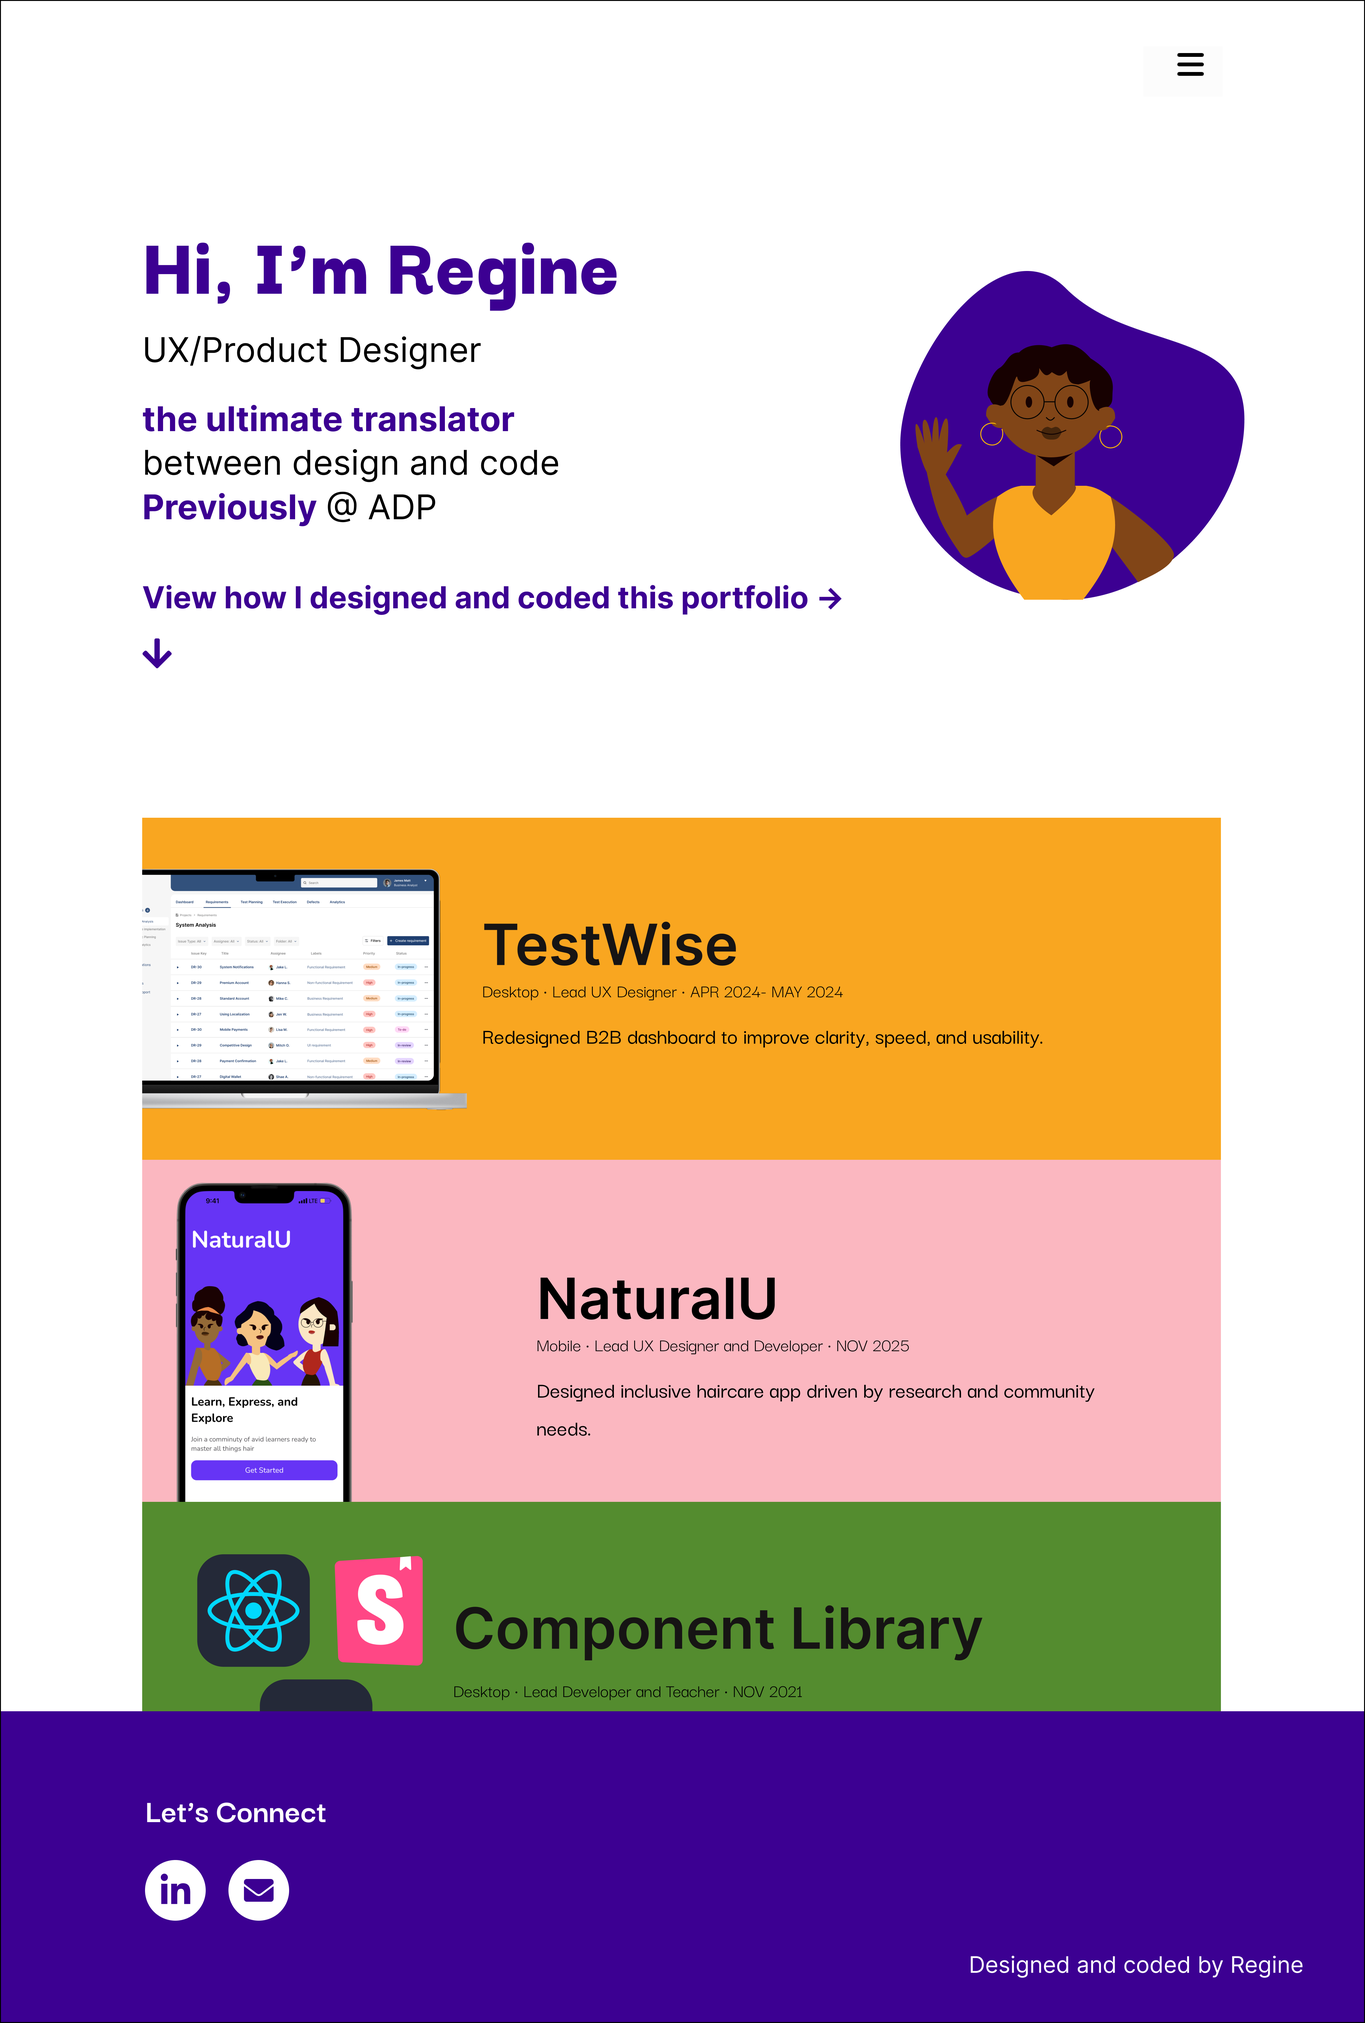
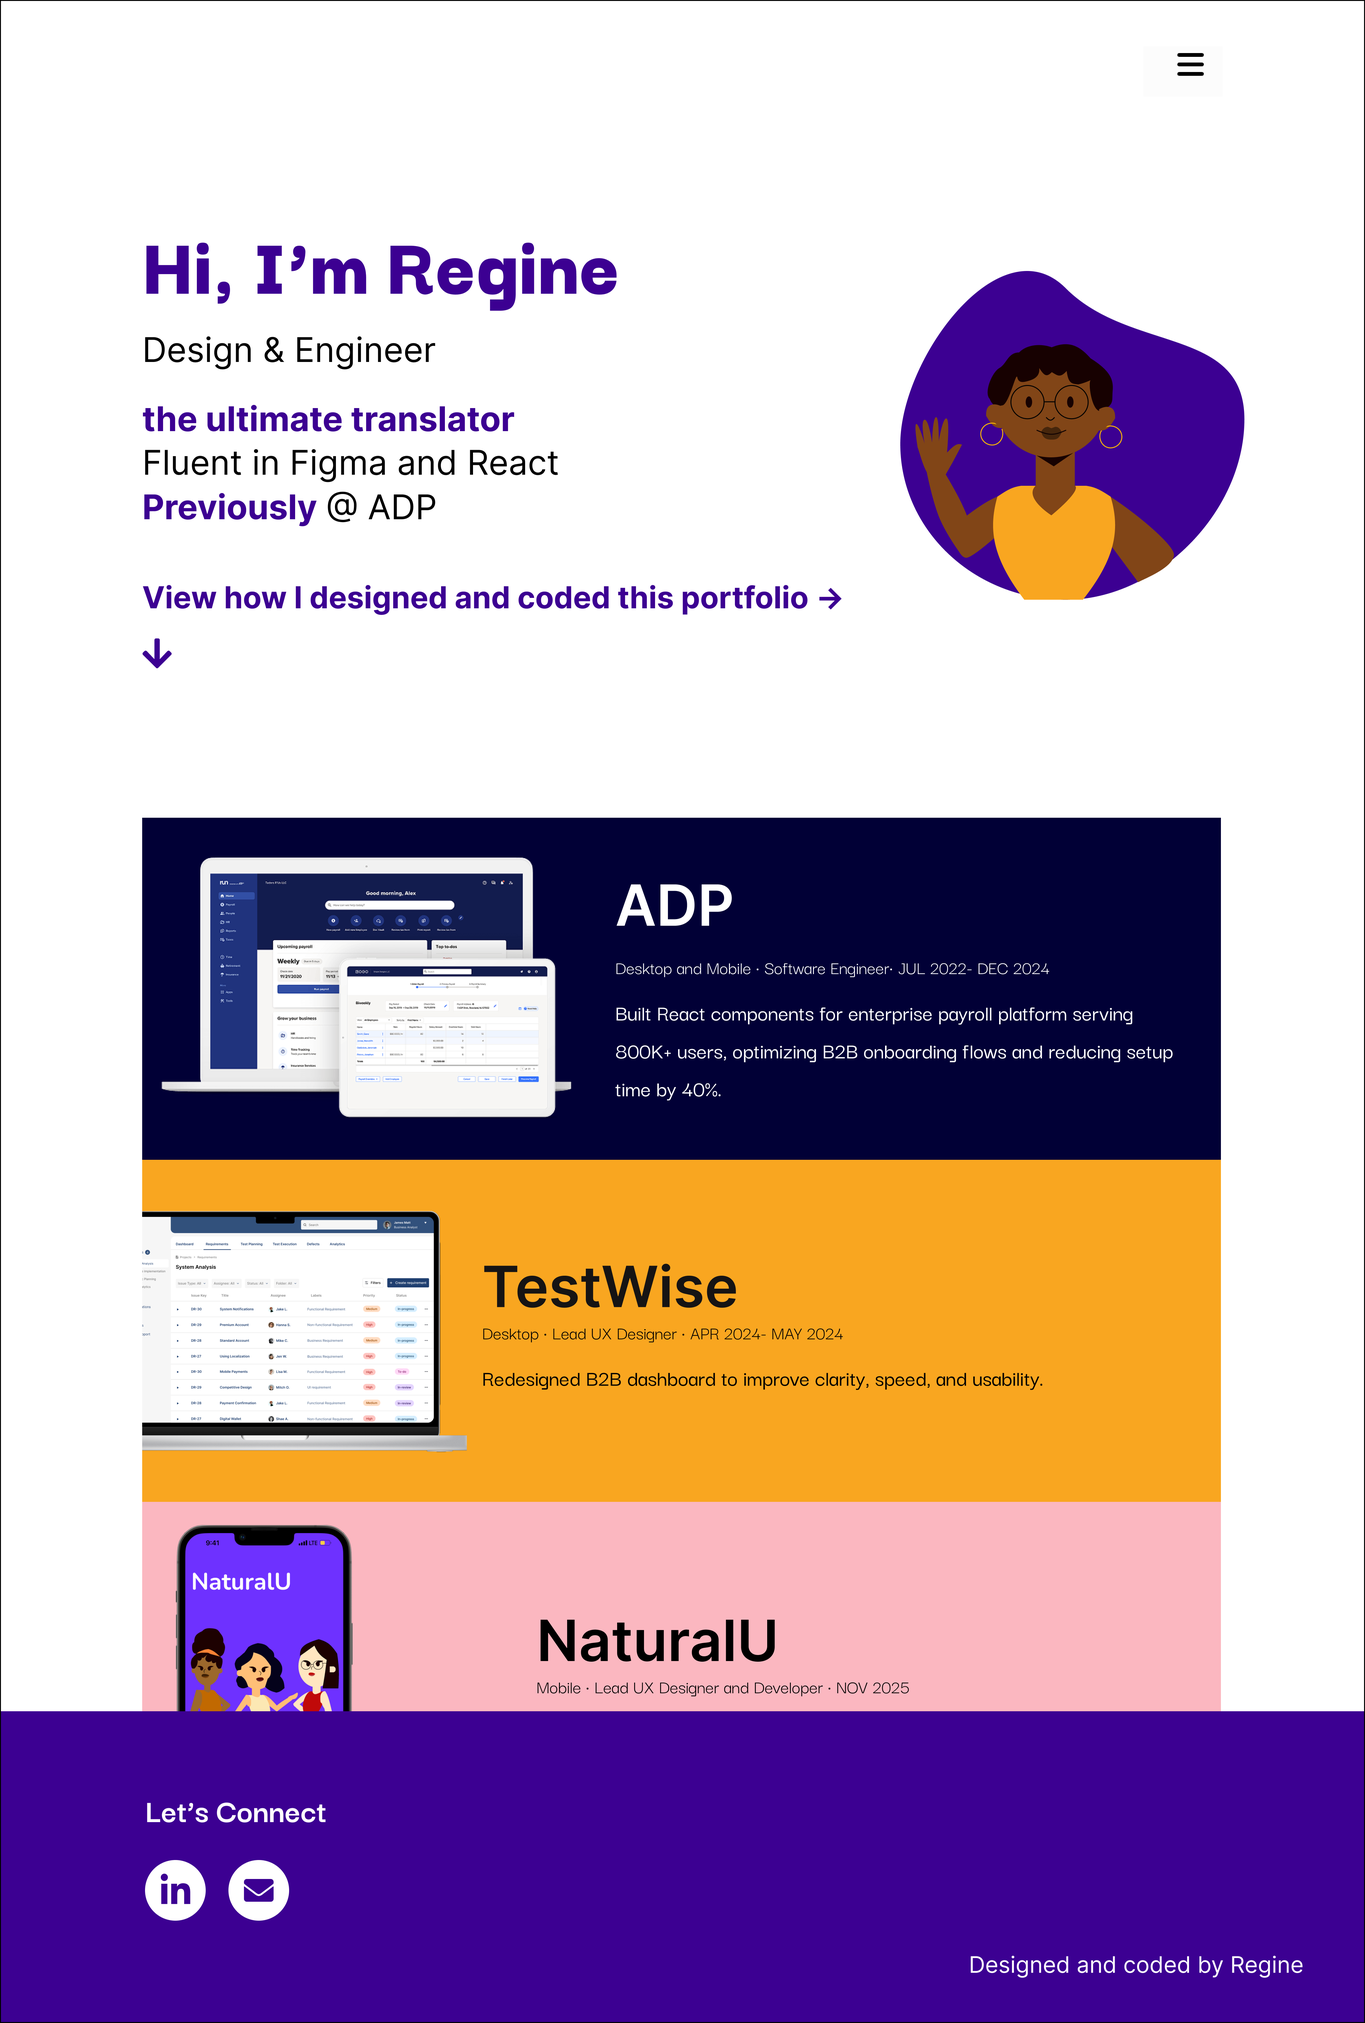
Regine add adp (#33)
* adp case study

* final adp changes

diff --git a/src/pages/case-study/adp.js b/src/pages/case-study/adp.js
@@ -1,0 +1,222 @@
+import { useState } from "react";
+import Head from "next/head";
+import MobileNav from "@/components/mobile-nav";
+import Navbar from "@/components/navbar";
+import Image from "next/image";
+import Footer from "@/components/footer";
+import {
+  zoomImage,
+  darkerGrotesqueTitle,
+  interBody,
+  interBold,
+  createImageArray,
+  solutionInActionStyles,
+} from "@/utils";
+import useWindowSize from "@/hooks/useWindowSize";
+import CaseStudyFooter from "@/components/case-study-footer";
+
+//images
+import adp_1 from "../../../assets/capstone/adp/adp-1.png";
+import adp_2 from "../../../assets/capstone/adp/adp-2.png";
+import adp_3 from "../../../assets/capstone/adp/adp-3.png";
+import adp_4 from "../../../assets/capstone/adp/adp-4.png";
+
+export default function ADP() {
+  const { width } = useWindowSize();
+  const [showContent, setShowContent] = useState(true);
+  const [zoomedOutcomeIndex, setZoomedOutcomeIndex] = useState(null);
+
+  const updateContent = (state) => {
+    setShowContent(state);
+  };
+  const handleClick = (index) => {
+    setZoomedOutcomeIndex((prev) => (prev === index ? null : index));
+  };
+  const adpImages = [adp_1, adp_2, adp_3, adp_4];
+  return (
+    <>
+      <Head>
+        <title>ADP Case Study </title>
+      </Head>
+      {width <= 767 ? <MobileNav updateContent={updateContent} /> : <Navbar />}
+      {showContent && (
+        <main className="mx-auto w-80% flex flex-col gap-y-20 mt-16 mb-48">
+          <div className=" h-[35rem] w-full relative  bg-adp-blue">
+            <div className="px-4 flex flex-col md:flex-row justify-center items-center h-full gap-x-6">
+              <div className=" w-[15rem] h-[15rem] md:w-[30rem] md:h-[30rem] relative">
+                <Image
+                  src={adp_1}
+                  alt="Testwise Dashboard Image"
+                  fill
+                  style={{ objectFit: "contain" }}
+                />
+              </div>
+              <div className="w-[15rem] h-[15rem] md:w-[30rem] md:h-[30rem] relative">
+                <Image
+                  src={adp_2}
+                  alt="Testwise Kanban Image"
+                  fill
+                  style={{ objectFit: "contain" }}
+                />
+              </div>
+            </div>
+          </div>
+          <h1
+            className={`flex justify-center text-adp-blue ${darkerGrotesqueTitle.className} text-6xl`}
+          >
+            ADP
+          </h1>
+          <div className="flex flex-col gap-y-8 md:mx-auto md:w-3/4">
+            <h3
+              className={`text-adp-blue text-5xl ${darkerGrotesqueTitle.className}`}
+            >
+              Overview
+            </h3>
+            <div className={`text-2xl leading-relaxed ${interBody.className}`}>
+              <p>
+                {`I was a Software Engineer at ADP, working on ADP Run, an enterprise payroll platform 
+                serving 800,000+ clients.My main project was rebuilding the B2B client onboarding 
+                system. I built React components, optimized workflows, and reduced client setup 
+                time by 40% while maintaining WCAG compliance.
+                Note: Specific screens cannot be shown due to confidentiality.`}
+              </p>
+              <span>
+                The public product:{" "}
+                <a
+                  href="https://www.adp.com/what-we-offer/products/run-powered-by-adp.aspx"
+                  passHref={true}
+                  target="_blank"
+                  rel="noopener noreferrer"
+                  className={`text-2xl leading-relaxed ${interBody.className} underline cursor-pointer`}
+                >
+                  ADP Run
+                </a>
+              </span>
+            </div>
+          </div>
+          <div className="flex flex-col gap-y-8 md:mx-auto md:w-3/4">
+            <h3
+              className={`text-adp-blue text-5xl ${darkerGrotesqueTitle.className}`}
+            >
+              My Role
+            </h3>
+            <h4
+              className={`text-adp-blue text-4xl ${darkerGrotesqueTitle.className}`}
+            >
+              What I built
+            </h4>
+            <ul
+              className={`list-disc text-2xl leading-relaxed ${interBody.className} `}
+            >
+              <li className="mb-4">
+                React components for client onboarding workflows
+              </li>
+              <li className="mb-4">
+                Multi-tenant B2B interfaces integrated with C# APIs
+              </li>
+              <li className="mb-4">WCAG-compliant forms and data tables</li>
+              <li className="mb-4">
+                Performance-optimized components for 800K+ users
+              </li>
+            </ul>
+            <h4
+              className={`text-adp-blue text-4xl ${darkerGrotesqueTitle.className}`}
+            >
+              Technologies
+            </h4>
+            <ul
+              className={`list-disc text-2xl leading-relaxed ${interBody.className} `}
+            >
+              <li className="mb-4">React, TypeScript, JavaScript</li>
+              <li className="mb-4">HTML/CSS, TailwindCSS, Responsive Design</li>
+              <li className="mb-4">WCAG-compliant forms and data tables</li>
+              <li className="mb-4">C# RESTful APIs</li>
+              <li className="mb-4">Jest, Cypress, Mocha</li>
+              <li className="mb-4">Git, Jira, Jenkins CI/CD</li>
+            </ul>
+            <p className={`text-2xl  ${interBody.className}`}>
+              Key Achievement Reduced client onboarding time through component
+              optimization and streamlined user flows.
+            </p>
+          </div>
+          <div className="flex flex-col gap-y-8 md:mx-auto md:w-3/4">
+            <h3
+              className={`text-adp-blue text-5xl ${darkerGrotesqueTitle.className}`}
+            >
+              Outcome
+            </h3>
+            <div className={`text-2xl leading-relaxed ${interBody.className}`}>
+              <p>
+                {`My work on ADP Run directly served 800,000+ clients across the
+                United States, handling billions of dollars in payroll
+                processing annually. I built React components and optimized
+                workflows that met WCAG 2.1 AA compliance standards, maintained
+                sub-second response times, and supported thousands of concurrent
+                businesses with different configurations and needs.`}
+              </p>
+              <br />
+              <p>
+                {`The client onboarding optimization was my most significant
+                contribution, reducing confusion and excessive third-party
+                communication between sales teams, CPAs, and finance
+                professionals by 40%. By streamlining the user interface and
+                creating clearer workflows, I helped clients complete setup with
+                less back-and-forth, reducing support burden while maintaining
+                enterprise-grade reliability and accessibility standards.`}
+              </p>
+              <br />
+              <h4
+                className={`text-adp-blue text-4xl mb-8 ${darkerGrotesqueTitle.className}`}
+              >
+                What I Learned
+              </h4>
+              <p>
+                {`Building for hundreds of thousands of users taught me
+                performance optimization, accessibility standards, and how to
+                work within large engineering teams. I learned to balance
+                technical excellence with business requirements while
+                maintaining code quality at scale.`}
+              </p>
+              <br />
+              <p>
+                Public-facing ADP Run interface. Some screens shown include
+                React components I contributed to. My primary work on internal
+                onboarding systems cannot be shown due to confidentiality.
+              </p>
+            </div>
+            <p
+              className={`${interBody.className} italic text-md text-center  pt-4`}
+            >
+              Click on each image to enlarge
+            </p>
+            <div className="flex flex-wrap justify-center gap-6">
+              {adpImages.map((img, index) => {
+                return (
+                  <div
+                    className={`relative w-[45%]  group cursor-pointer`}
+                    onClick={() => handleClick(index)}
+                    key={index}
+                  >
+                    <Image
+                      src={img}
+                      alt="ADP Product Screen"
+                      className="object-contain w-full border-2 rounded-xl border-slate-200 "
+                      style={
+                        zoomedOutcomeIndex === index
+                          ? zoomImage(true, true)
+                          : {}
+                      }
+                    />
+                    <div className="absolute inset-0 bg-black bg-opacity-50 rounded-xl opacity-0 group-hover:opacity-100 transition-opacity duration-300 flex items-center justify-center"></div>
+                  </div>
+                );
+              })}
+            </div>
+          </div>
+          <CaseStudyFooter casestudy="ADP" />
+        </main>
+      )}
+      {showContent && <Footer width={width} />}
+    </>
+  );
+}

diff --git a/src/pages/projects.js b/src/pages/projects.js
@@ -11,6 +11,7 @@ import { darkerGrotesqueTitle, interBody, interBold } from "@/utils";
 
 import gatherly from "../../assets/gatherly.png";
 import moderAttire from "../../assets/modern_attire.png";
+import tutorial from "../../assets/tutorial.png";
 
 export default function Projects() {
   const [showContent, setShowContent] = useState(true);
@@ -84,32 +85,77 @@ export default function Projects() {
               with video guidance to overcome the major barrier of sizing in
               online apparel shopping.
             </p>
+            <p
+              className={`text-2xl leading-relaxed ${interBody.className} mt-6`}
+            >
+              <span className={`text-black ${interBold.className}`}>
+                Component Library Tutorial
+              </span>{" "}
+              - Educational Frontend Architecture
+            </p>
+            <p className={`text-2xl leading-relaxed ${interBody.className}`}>
+              Created an educational tutorial{" "}
+              <span className={`text-black ${interBold.className}`}>
+                component-based architecture
+              </span>{" "}
+              using{" "}
+              <span className={`text-black ${interBold.className}`}>
+                React, TailwindCSS, and Storybook.{" "}
+              </span>{" "}
+              Guided computer science students through building isolated,
+              reusable UI components that systematically assembled into a
+              functional profile page.
+            </p>
           </div>
-          <div className="flex flex-col md:flex-row">
-            <div className="relative flex-1 group">
-              <Link rel="noopener noreferrer" href={"/projects/gatherly"}>
-                <Image src={gatherly} alt="Gatherly case study" />
-                <div className="absolute inset-0 bg-black opacity-0 group-hover:opacity-70 transition-opacity"></div>
-                <div
-                  className={`${darkerGrotesqueTitle.className} text-center text-2xl md:text-4xl absolute inset-0 flex justify-center items-center text-white opacity-0 group-hover:opacity-100 transition-opacity`}
+          <div className="flex flex-col">
+            <div className="flex flex-col md:flex-row">
+              <div className="relative flex-1 group">
+                <Link rel="noopener noreferrer" href={"/projects/gatherly"}>
+                  <Image src={gatherly} alt="Gatherly case study" />
+                  <div className="absolute inset-0 bg-black opacity-0 group-hover:opacity-70 transition-opacity"></div>
+                  <div
+                    className={`${darkerGrotesqueTitle.className} text-center text-2xl md:text-4xl absolute inset-0 flex justify-center items-center text-white opacity-0 group-hover:opacity-100 transition-opacity`}
+                  >
+                    Gatherly <br /> Build community
+                  </div>
+                </Link>
+              </div>
+              <div className="relative flex-1 group">
+                <Link
+                  rel="noopener noreferrer"
+                  href={"/projects/modern-attire"}
                 >
-                  Gatherly <br /> Build community
-                </div>
-              </Link>
+                  <Image
+                    src={moderAttire}
+                    alt="Moder Attire case study page"
+                    className="max-h-full max-w-full"
+                  />
+                  <div className="absolute inset-0 bg-black opacity-0 group-hover:opacity-70 transition-opacity"></div>
+                  <div
+                    className={`${darkerGrotesqueTitle.className} text-center text-2xl md:text-4xl  absolute inset-0 flex justify-center items-center text-white opacity-0 group-hover:opacity-100 transition-opacity`}
+                  >
+                    Modern Attire
+                    <br /> Elegant suits
+                  </div>
+                </Link>
+              </div>
             </div>
             <div className="relative flex-1 group">
-              <Link rel="noopener noreferrer" href={"/projects/modern-attire"}>
+              <Link
+                rel="noopener noreferrer"
+                href={"/projects/component-library"}
+              >
                 <Image
-                  src={moderAttire}
-                  alt="Moder Attire case study page"
+                  src={tutorial}
+                  alt="Component Library tutorial project page"
                   className="max-h-full max-w-full"
                 />
                 <div className="absolute inset-0 bg-black opacity-0 group-hover:opacity-70 transition-opacity"></div>
                 <div
                   className={`${darkerGrotesqueTitle.className} text-center text-2xl md:text-4xl  absolute inset-0 flex justify-center items-center text-white opacity-0 group-hover:opacity-100 transition-opacity`}
                 >
-                  Modern Attire
-                  <br /> Elegant suits
+                  Component Library
+                  <br /> Educational Frontend Tutorial
                 </div>
               </Link>
             </div>

diff --git a/src/pages/index.js b/src/pages/index.js
@@ -15,6 +15,7 @@ import { FontAwesomeIcon } from "@fortawesome/react-fontawesome";
 import testwise from "../../assets/test wise.png";
 import naturalU from "../../assets/naturalU.png";
 import tutorial from "../../assets/tutorial.png";
+import adp from "../../assets/ADP.png";
 
 export default function Home() {
   const [showContent, setShowContent] = useState(true);
@@ -303,6 +304,11 @@ export default function Home() {
               ref={caseStudiesRef}
             >
               <div className="hover:scale-105">
+                <Link rel="noopener noreferrer" href={"/case-study/adp"}>
+                  <Image src={adp} alt="ADP case study" />
+                </Link>
+              </div>
+              <div className="hover:scale-105">
                 <Link rel="noopener noreferrer" href={"/case-study/testwise"}>
                   <Image src={testwise} alt="Test wise case study" />
                 </Link>
@@ -310,15 +316,6 @@ export default function Home() {
               <div className="hover:scale-105">
                 <Link rel="noopener noreferrer" href={"/case-study/natural-u"}>
                   <Image src={naturalU} alt="Natural U case study" />
-                </Link>
-              </div>
-
-              <div className="hover:scale-105">
-                <Link rel="noopener noreferrer" href={"/component-library"}>
-                  <Image
-                    src={tutorial}
-                    alt="UI component tutorial case study"
-                  />
                 </Link>
               </div>
             </div>

diff --git a/src/components/case-study-footer.js b/src/components/case-study-footer.js
@@ -8,6 +8,7 @@ import myIllustration from "../../assets/illustrations/my_illustration.svg";
 import emerald from "../../assets/illustrations/Emerald.svg";
 import designSystemTools from "../../assets/illustrations/design-system-tools.svg";
 import modernAttire from "../../assets/modern-attire-thumbnail.svg";
+import adp from "../../assets/adp-logo.png";
 
 export default function CaseStudyFooter({ casestudy = "" }) {
   const caseStudies = [
@@ -42,6 +43,11 @@ export default function CaseStudyFooter({ casestudy = "" }) {
       image: modernAttire,
       subtitle: "Modern Attire",
       link: "/projects/modern-attire",
+    },
+    {
+      image: adp,
+      subtitle: "ADP",
+      link: "/case-study/adp",
     },
   ];
   return (

diff --git a/src/pages/case-study/testwise.js b/src/pages/case-study/testwise.js
@@ -1,4 +1,4 @@
-import { useState, useRef } from "react";
+import { useState } from "react";
 import Navbar from "@/components/navbar";
 import MobileSlider from "@/components/mobile-slider";
 import Slider from "@/components/slider";

diff --git a/tailwind.config.js b/tailwind.config.js
@@ -49,6 +49,7 @@ module.exports = {
         "testwise-blue": "#1F3F70",
         "component-library": "#0084D1",
         bgWhite: "#fcfcfc",
+        "adp-blue": "#010036",
       },
       keyframes: {
         fadeInUp: {
